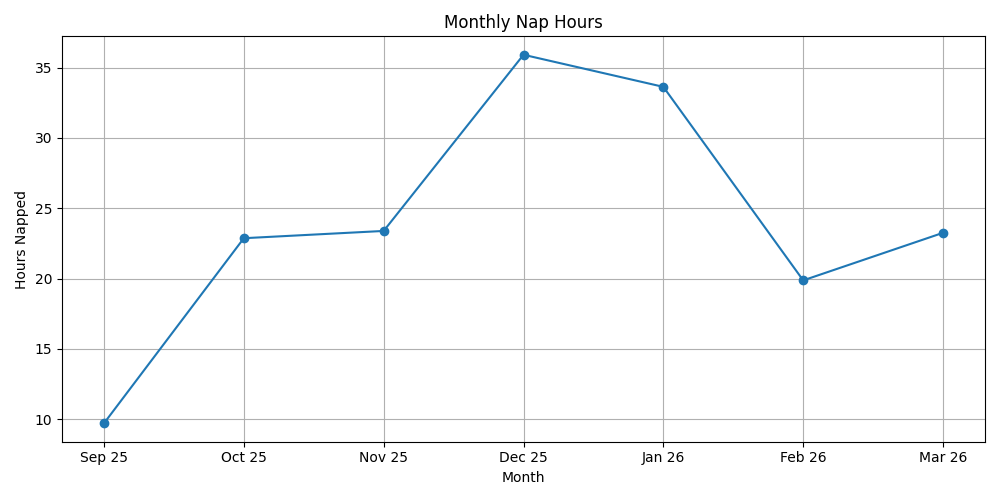
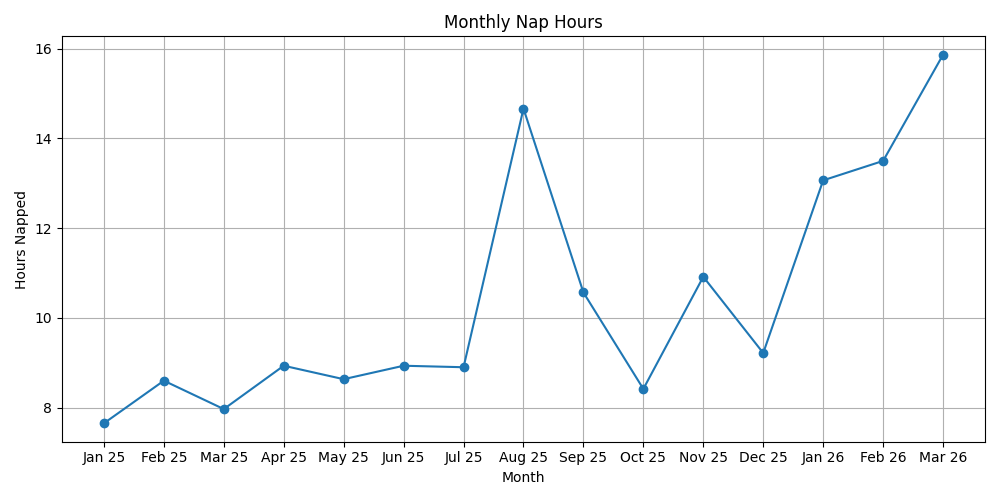
cleanup

diff --git a/main.py b/main.py
@@ -9,7 +9,15 @@ from graph import plot_hours
 
 
 BASE_URL = "https://www.tadpoles.com"
-EVENTS_QUERY_ENDPOINT = "/remote/v2/events/query"
+EVENTS_QUERY_ENDPOINT = "remote/v2/events/query"
+HEADERS = {
+    "Content-Type": "application/json",
+    "X-Requested-With": "XMLHttpRequest",
+    "Referer": f"{BASE_URL}/parents",
+    "Origin": BASE_URL,
+    "X-TADPOLES-DEVICE-PLATFORM": "web",
+    "X-TADPOLES-APP-ID": "com.tadpoles.web.parent",
+}
 
 
 def main():
@@ -18,7 +26,10 @@ def main():
     # (year, month) / hours napped
     hours_napped_by_month: dict[tuple[int, int], float] = {}
 
-    ranges = get_month_ranges_between(datetime(year, month, 1), datetime(2026, 11, 1))
+    ranges = get_month_ranges_between(
+        datetime(year, month, 1),
+        datetime(datetime.now().year, datetime.now().month, 1),
+    )
 
     session = get_session()
 
@@ -41,15 +52,15 @@ def bootstrap_flags():
 
 
 def validate_args(args: Namespace) -> tuple[int, int]:
-    # argparse already validates type
     month = args.month
     year = args.year
 
     if not 1 <= month <= 12:
         sys.exit("Month must be between 1 and 12")
 
-    if year > datetime.now().year:
-        sys.exit(f"Year must be <= {datetime.now().year}")
+    current_year = datetime.now().year
+    if year > current_year:
+        sys.exit(f"Year must be <= {current_year}")
 
     return year, month
 
@@ -57,7 +68,7 @@ def validate_args(args: Namespace) -> tuple[int, int]:
 def query_events_for_month(session: Session, month: int, year: int):
     next_year, next_month_value = get_next_month(year, month)
 
-    body: dict[str, str | int] = {
+    body = {
         "direction": "range",
         "event_timestamp": int(datetime(year, month, 1).timestamp() * 1000),
         "end_event_timestamp": int(
@@ -67,43 +78,45 @@ def query_events_for_month(session: Session, month: int, year: int):
         "client": "dashboard",
     }
 
-    headers = {
-        "Content-Type": "application/json",
-        "X-Requested-With": "XMLHttpRequest",
-        "Referer": f"{BASE_URL}/home_or_work",
-        "Origin": BASE_URL,
-    }
-
     # Tadpoles looks like it uses cursor based pagination
-    # To harden: Need to loop through pages and concat togather
-    # Inspecting payloads in UI, it uses 300 as the item size which seems to grab all events
+    # To harden: Loop through pages and concat togather
+    # Inspecting payloads in UI, it uses 300 as the item size which seems to grab all events for now
     response = session.post(
         f"{BASE_URL}/{EVENTS_QUERY_ENDPOINT}",
         json=body,
-        headers=headers,
+        headers=HEADERS,
     )
 
     if not response.ok:
-        raise RuntimeError("Something went wrong")
+        raise RuntimeError(f"Something went wrong ({response.status_code})")
 
     return response.json()
 
 
 def get_unique_nap_entries(events):
-    daily_reports = [event for event in events if event["type"] == "DailyReport"]
-    nap_entries = [
+    seen_ids = set()
+    unique_nap_entries = []
+
+    daily_reports = [event for event in events if event.get("type") == "DailyReport"]
+    entries = [
         entry
         for report in daily_reports
-        for entry in report["entries"]
-        if entry["type_name"] == "nap"
+        for entry in (report.get("entries") or report.get("legacy_entries") or [])
     ]
 
-    seen_ids: set[str] = set()
-    unique_nap_entries = []
-    # probably a more pythonic was to do below with list comprehension
-    for entry in nap_entries:
-        if not entry["start_time"] or not entry["end_time"]:
+    for entry in entries:
+        # "type" is legacy key
+        entry_type = entry.get("type_name") or entry.get("type")
+
+        if entry_type != "nap":
             continue
+
+        start = entry.get("start_time")
+        end = entry.get("end_time")
+
+        if not start or not end:
+            continue
+
         if entry["id"] in seen_ids:
             continue
 
